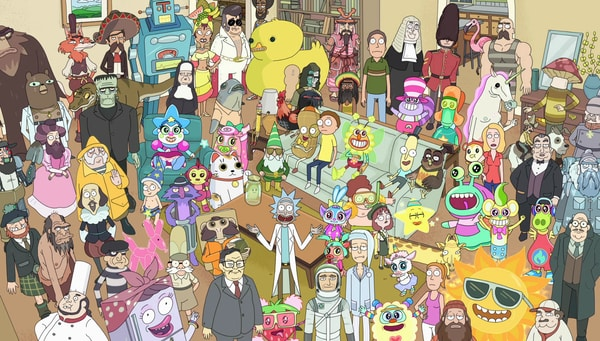
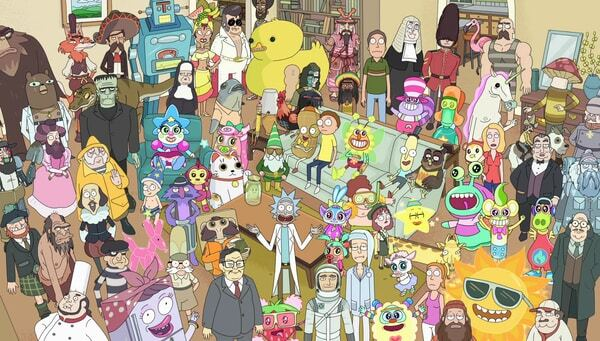
optimized images

diff --git a/src/app/page.tsx b/src/app/page.tsx
@@ -2,8 +2,8 @@ import { NextLink } from '@/common/next-link';
 import charactersPic from '@/images/characters.jpg';
 import episodesPic from '@/images/episodes.jpg';
 import locationsPic from '@/images/locations.jpg';
-import home01Gif from '@/gifs/home01.webp';
-import home02Gif from '@/gifs/home02.gif';
+import runningPic from '@/images/running.jpg';
+import snufflesPic from '@/images/snuffles.jpg';
 import { Card, CardImage, CardTitle } from '@/common/card';
 import { getMetadata } from '@/seo/seo-utils';
 
@@ -37,12 +37,12 @@ export default function Home() {
         })}
         <div className="sm:col-span-3">
           <Card>
-            <CardImage src={home01Gif} alt="Rick dancing gif" />
+            <CardImage src={runningPic} alt="Rick and Morty are running" />
           </Card>
         </div>
         <div className="sm:col-span-3">
           <Card>
-            <CardImage src={home02Gif} alt="Snuffles gif" />
+            <CardImage src={snufflesPic} alt="Snuffles" />
           </Card>
         </div>
       </div>
